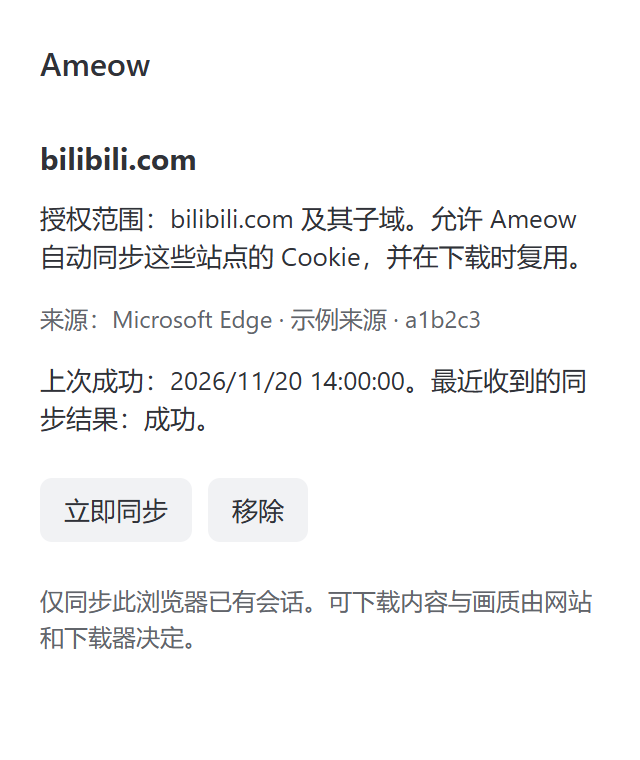
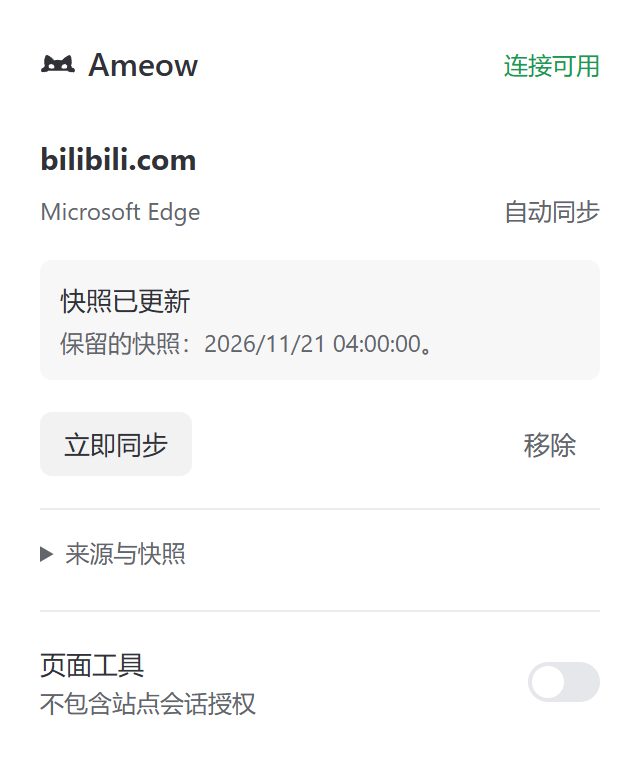
docs: refresh README session sync media from PR76

diff --git a/docs/images/readme/README.md b/docs/images/readme/README.md
@@ -9,12 +9,17 @@ Both READMEs share them, with localized copy and alternative text. They are
 | [Desktop cat](desktop-cat.gif) / [poster](desktop-cat-poster.png) | Native Windows Gallery: Compact idle, Full, then the paw-first Compact entrance. The pointer is an editorial overlay; scene changes are injected. Compact → Full uses an editorial cut; Full → Compact retains the recorded shrink and paw-first entrance. |
 | [Paste a link](paste-link.gif) / [poster](paste-link-poster.png) | Native Gallery's idle, resolving and downloading states for the same synthetic job. Ctrl + V is an editorial hint, with no physical input or clipboard access. Timing does not measure network speed. |
 | [Clip selection](clip-selection.gif) / [poster](clip-poster.png) | PR64's unchanged Peek UI runs in a local example player using Ameow's public homepage dancer clip. Marker at 1s, range to 4s; no download submission. |
-| [Session sync](session-sync.gif) / [poster](session-sync-poster.png) | PR63's unchanged extension popup, rendered headlessly. A synthetic, already-authorized bilibili.com site moves from pending to synced through a local transport fixture. Microsoft Edge · 示例来源 and its source ID are examples. No permission dialog, Cookie, Native host or account is accessed. |
+| [Session sync](session-sync.gif) / [poster](session-sync-poster.png) | PR76's unchanged extension popup, rendered headlessly from the frozen product build. A synthetic, already-authorized bilibili.com site moves from an unknown result to an updated snapshot through the product's local response fixture. The popup shows only the current webpage's site; Microsoft Edge, timestamps and installation IDs are examples. No permission dialog, Cookie, Native host or account is accessed. |
 
 Clips and session sync are development previews, absent from the 0.5.0 release.
 The session GIF starts **after site authorization** and shows an explicit sync;
 it does not depict browser permission confirmation or prove that a website will
 accept the cached session.
+
+The session GIF is 640 × 760, 7s, 58,290 bytes, SHA256
[1 lines of base64/hex data omitted]
+the poster is 41,712 bytes, SHA256
[1 lines of base64/hex data omitted]
 
 The clip GIF is 560 × 552, 6.8s, 290,186 bytes. Its SHA256 is
[1 lines of base64/hex data omitted]
@@ -24,8 +29,8 @@ The public dancer is Ameow's own generated homepage artwork; provenance remains 
 [the homepage asset notes](../../../site/src/assets/homepage/SOURCES.md).
 
 Product source references: `src/mascot_motion.rs`, `src/mascot_reveal.rs`,
-`src/preview.rs`, and `src/download_ui.rs` for the desktop; PR63
-`13107cefd22c3397b238daf05dce74625c00017b` for the popup; PR64
+`src/preview.rs`, and `src/download_ui.rs` for the cat and paste demos; PR76
+`01c2fad5d24ea7e0cc35f8aad8fe0fc9657e156b` for the popup; PR64
 `cd2fb9eeea04aadce8fda6f6ab7204f4f1733123` for Peek. Native capture identifies
 its cached 0.5.0 EXE by SHA256
[1 lines of base64/hex data omitted]
@@ -37,8 +42,20 @@ dependencies, download mechanism or authentication behavior is changed.
 The cat capture's two incomplete compositor frames were removed without
 interpolation; the expansion is a cut, not continuous-motion evidence. The native
 media use one uniform crop that preserves the full window and recorded action.
-The extension bundle was independently rebuilt with its locked esbuild 0.28.2
-and compared byte-for-byte, then pinned in the capture script.
+The popup uses the product task's frozen build, with source SHA256
[1 lines of base64/hex data omitted]
+and popup.js SHA256
[1 lines of base64/hex data omitted]
+HTML, CSS and cat SVG are also pinned in the capture script. HTML/CSS agree with
+the product Git object after normalizing line endings; the capture serves the
+exact frozen bytes. This documentation task did not rebuild the product.
+The [synthetic response contract](../../readme-media/session-sync/sample-contract.json)
+is copied from that product asset package with repository line endings. Its
+SHA256 after normalizing CRLF to LF is
[2 lines of base64/hex data omitted]
+The capture adds a pointer overlay and controls example response timing; it
+does not measure sync speed or verify browser registration or sign-in validity.
 
 ## Native stills
 

diff --git a/docs/readme-media/README.md b/docs/readme-media/README.md
@@ -27,18 +27,23 @@ the pin. New recordings produce raw media for review.
 ## Extension session sync
 
 The popup's HTML, CSS and built JS are used unchanged. The renderer checks the
-build's source hash against pinned PR63 source, injects only a synthetic browser
-transport, and blocks external requests. No extension is installed.
+frozen PR76 build's source identity and exact HTML/CSS/JS/cat SVG hashes, injects
+only the credential-free [product response contract](session-sync/sample-contract.json),
+and blocks external requests. No extension is installed. The current webpage's
+already-authorized site moves from an unknown result to an updated snapshot.
 
 ```powershell
 $env:PLAYWRIGHT_MODULE = '<absolute-path-to-playwright-core/index.mjs>'
 $env:CHROMIUM_PATH = '<absolute-path-to-headless-chromium-executable>'
-$extensionDist = '<absolute-path-to-PR63/browser-extension/dist>'
+$extensionDist = '<absolute-path-to-reviewed-PR76/popup-dist>'
 node docs/readme-media/session-sync/render.mjs $extensionDist
 ```
 
-Use the pinned PR63 source object and a matching extension build produced with
-its lockfile. Set `PLAYWRIGHT_MODULE` to an installed `playwright-core` module
+Use the frozen PR76 product build at `01c2fad5d24ea7e0cc35f8aad8fe0fc9657e156b`,
+whose identity is recorded in the media sources. The script also compares HTML
+and CSS with that Git object, normalizing line endings only; the served resource
+bytes remain unchanged. A fresh build with different line endings or bytes needs
+its own review before changing the pins. Set `PLAYWRIGHT_MODULE` to an installed `playwright-core` module
 file and `CHROMIUM_PATH` to the Chromium executable to use. These variables also
 apply to `check.mjs`; provide your own paths explicitly. Node.js and FFmpeg must
 be available. No project dependencies are added.

diff --git a/README.en.md b/README.en.md
@@ -44,7 +44,7 @@ Configure the browser connection in Ameow and copy the extension folder path. On
 Then open the extension on a webpage, confirm the site scope and authorize it to sync the existing session for downloads. Sync does not sign you in or guarantee that the site still accepts the session.
 
 <p align="center">
-  <img src="docs/images/readme/session-sync.gif" alt="Click Sync now for an already-authorized example site; the Ameow extension shows that site's browser source and latest sync result." width="560">
+  <img src="docs/images/readme/session-sync.gif" alt="Click Sync now for an already-authorized bilibili.com example; the popup shows only the current webpage's site as its result changes from unknown to Snapshot updated, with Microsoft Edge as the source." width="560">
 </p>
 
 ## Development and building

diff --git a/README.md b/README.md
@@ -44,7 +44,7 @@
 随后在网页打开扩展，确认站点范围并授权，同步已有会话供下载复用。同步不会替你登录，也不保证网站仍接受该会话。
 
 <p align="center">
-  <img src="docs/images/readme/session-sync.gif" alt="在已授权的示例站点点击立即同步，Ameow 扩展显示同一站点的浏览器来源与最近同步结果。" width="560">
+  <img src="docs/images/readme/session-sync.gif" alt="在已授权的 bilibili.com 示例中点击立即同步，扩展只显示当前网页站点；最近结果从未知变为快照已更新，来源为 Microsoft Edge。" width="560">
 </p>
 
 ## 开发与构建
